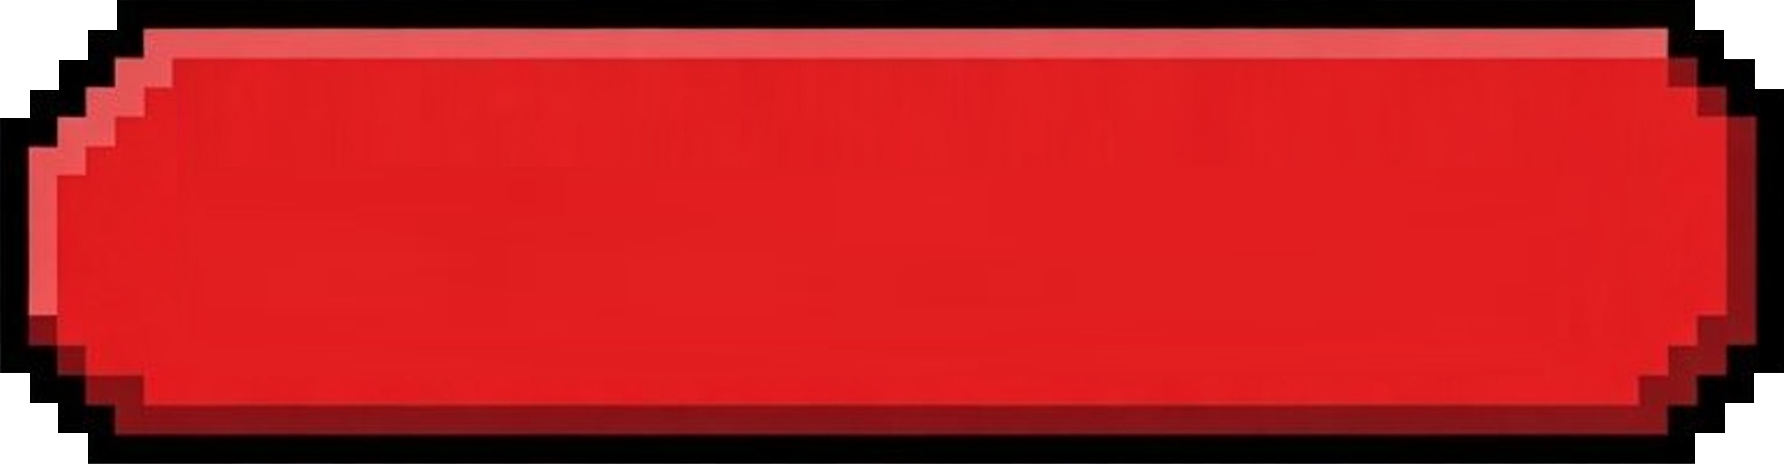
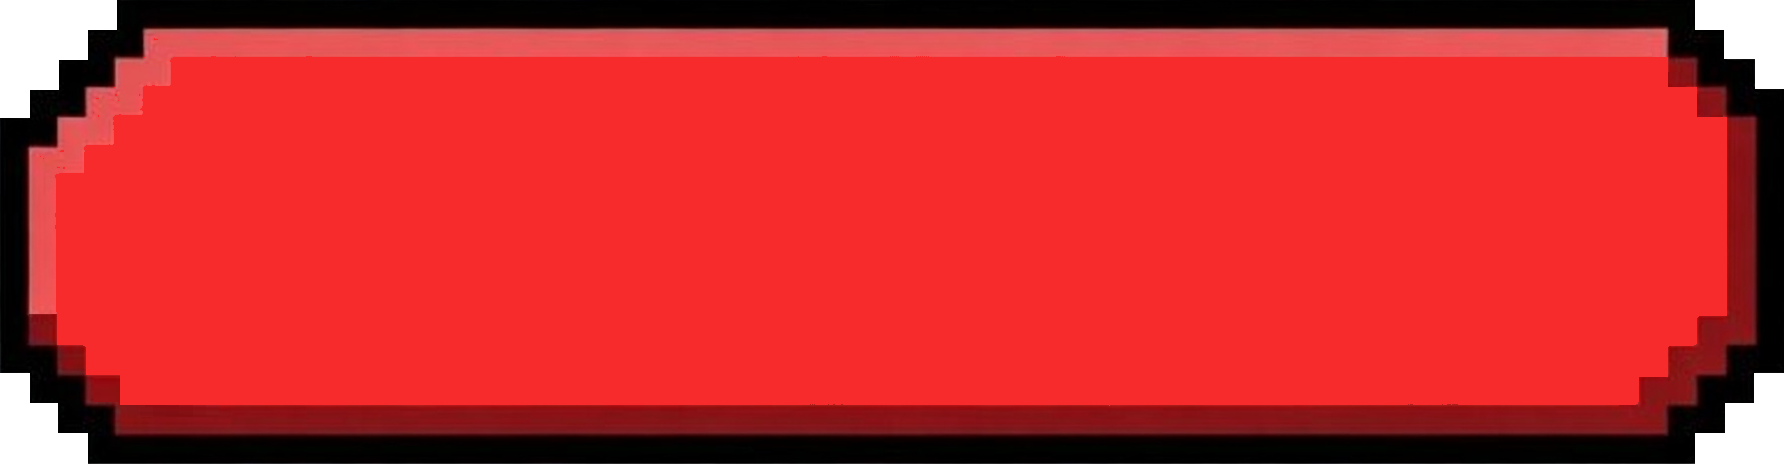
Botones de wallet recortados de nuevo, X recolor, flecha nueva y BACK TO SITE con arte, y arregla el editor de IN GAME
- CONNECT y el rojo vacio (deposit/withdraw/disconnect): David los recorto de
  nuevo, mismo tratamiento de quitar el magenta deshaciendo la mezcla del
  borde.
- x.png (la X de salir de partida): David la recoloreo pero dejo el recorte
  crudo, con el mismo fondo casi negro sin quitar que llevaban flecha/back to
  site. Aplicado el mismo dekey por brillo (fondo <=16, contenido >=50) que a
  esos dos - 0 pixels negros opacos residuales.
- Flecha de "volver al selector de modos" (.back-icon): arte nuevo de David
  (back-arrow.png) en vez del SVG + caja verde de antes.
- Boton "BACK TO SITE" (.back-to-web): arte nuevo (back-to-site.png, la
  flecha ya viene dibujada) con el rotulo escrito encima por CSS, igual que
  IN GAME. Tuvo que patchearse una fila de 1px blanca (artefacto del recorte)
  antes del dekey. Tamano 210x68 (no 180x58, el primero que probe): medido en
  el DOM, "BACK TO SITE" a 9px + letter-spacing se salia 8px por la derecha.
- Bug real encontrado al probar: GameWalletUI.refresh() es async y su rama
  "no conectado" se ejecuta DESPUES de un await, asi que si entrabas a
  SETTINGS -> EDIT LAYOUT justo tras seleccionar modo, ese refresh() pendiente
  pisaba la visibilidad forzada del editor (por eso la barra IN GAME o
  CONNECT/DEPOSIT desaparecian solos, o "saltaban"). refresh() ahora se corta
  si layoutEditing es true; exitLayoutEdit llama a refresh() al salir en vez
  de fiarse de la foto _layoutPrevDisplay (podia quedar desfasada).
[…]

Changed region(s): [[0.0308, 0.1207, 0.9865, 0.875], [0.185, 0.2716, 0.2158, 0.3319], [0.4008, 0.2414, 0.4316, 0.2716]]

diff --git a/game/index.html b/game/index.html
@@ -341,10 +341,26 @@
 
         /* --- MODE SCREEN (DESKTOP DEFAULT) --- */
         #modeScreen { position: absolute; top: 0; left: 0; width: 100%; height: 100%; z-index: 50; display: flex; overflow: hidden; background: #000; transition: opacity 0.5s; }
-        .back-to-web { position: absolute; top: 22px; left: 24px; z-index: 200; display: inline-flex; align-items: center; gap: 8px; padding: 9px 14px; background: rgba(8,12,8,0.85); backdrop-filter: blur(6px); border: 1px solid rgba(0,255,136,0.35); border-radius: 8px; color: #00ff88; font-family: 'Russo One',sans-serif; font-size: 11px; letter-spacing: 2px; text-transform: uppercase; text-decoration: none; cursor: pointer; transition: 0.25s; box-shadow: 0 6px 22px rgba(0,0,0,0.5); }
-        .back-to-web:hover { background: #00ff88; color: #04150c; border-color: #00ff88; box-shadow: 0 0 22px rgba(0,255,136,0.55); transform: translateX(-2px); }
-        .back-to-web svg { transition: transform 0.25s; }
-        .back-to-web:hover svg { transform: translateX(-3px); }
+        /* Boton "BACK TO SITE": arte de David (back-to-site.png, la flecha ya
+           viene dibujada a la izquierda), estirado ENTERO a tamaño uniforme
+           (mismo factor en ancho y alto — no distorsiona el marco) y el
+           rotulo escrito encima con la fuente pixel del menu, igual que
+           IN GAME (el PNG no trae texto horneado).
+           210x68 (aspect real 3136/1008 = 3.111): medido en el DOM, "BACK TO
+           SITE" en Press Start 2P a 9px + 2px de letter-spacing ocupa 132px —
+           a 180x58 (lo primero que probé) se salia 8px por la derecha. */
+        .back-to-web {
+            position: absolute; top: 22px; left: 24px; z-index: 200;
+            display: flex; align-items: center;
+            height: 68px; width: 210px; box-sizing: border-box;
+            padding: 0 14px 0 66px;
+            background: url('img/cartel-hero/back-to-site.png') center/100% 100% no-repeat;
+            image-rendering: pixelated;
+            color: #fff; font-family: 'Russo One',sans-serif; font-size: 11px; letter-spacing: 2px;
+            text-transform: uppercase; text-decoration: none; white-space: nowrap;
+            cursor: pointer; transition: filter 0.2s, transform 0.2s;
+        }
+        .back-to-web:hover { filter: brightness(1.15); transform: translateX(-2px); }
         .mode-panel { position: absolute; top: 0; bottom: 0; width: 100%; transition: clip-path 1.2s cubic-bezier(0.4, 0, 0.2, 1), filter 0.85s; cursor: pointer; display: flex; flex-direction: column; justify-content: center; padding: 0 10%; box-sizing: border-box; }
         
         /* Sin estado "neutral": la base YA es el aspecto de ARCADE (antes era
@@ -733,14 +749,16 @@
         .result-actions { display: flex; flex-direction: column; }
         .result-box { background: rgba(10, 15, 10, 0.95); border: 1px solid var(--primary); box-shadow: 0 0 50px rgba(0, 255, 136, 0.15); padding: 20px 30px; border-radius: 12px; text-align: center; width: 380px; animation: slideUp 0.4s ease-out; position: relative; max-height: 95vh; overflow-y: auto; }
         @keyframes slideUp { from {transform:translateY(20px); opacity:0;} to {transform:translateY(0); opacity:1;} }
-        .back-icon { position: absolute; top: 22px; left: 24px; z-index: 65; width: 44px; height: 44px; display: flex; align-items: center; justify-content: center; background: rgba(8,12,8,0.85); backdrop-filter: blur(6px); border: 1px solid rgba(0,255,136,0.35); border-radius: 8px; color: #00ff88; cursor: pointer; transition: 0.25s; box-shadow: 0 6px 22px rgba(0,0,0,0.5); user-select: none; }
-        .back-icon:hover { background: #00ff88; color: #04150c; border-color: #00ff88; box-shadow: 0 0 22px rgba(0,255,136,0.55); transform: translateX(-2px); }
-        .back-icon svg { transition: transform 0.25s; }
-        .back-icon:hover svg { transform: translateX(-3px); }
-        .back-icon.back-mode-classic { border-color: rgba(0,255,170,0.5); color: #00ffaa; }
-        .back-icon.back-mode-classic:hover { background: #00ffaa; color: #04150c; border-color: #00ffaa; box-shadow: 0 0 22px rgba(0,255,170,0.55); }
-        .back-icon.back-mode-arcade { border-color: rgba(204,255,0,0.5); color: #ccff00; }
-        .back-icon.back-mode-arcade:hover { background: #ccff00; color: #04150c; border-color: #ccff00; box-shadow: 0 0 22px rgba(204,255,0,0.55); }
+        /* Flecha de "volver al selector de modos": arte de David
+           (back-arrow.png) en vez del icono SVG + caja verde de antes. El PNG
+           ya trae su propio marco, asi que aqui solo queda tamaño y posicion;
+           sin fondo/borde/color propios (serian el rectangulo viejo asomando
+           detras del arte nuevo). Mismos 44x44 y sitio de siempre. */
+        .back-icon { position: absolute; top: 22px; left: 24px; z-index: 65; width: 44px; height: 44px; aspect-ratio: 1024/1007; background: url('img/cartel-hero/back-arrow.png') center/100% 100% no-repeat; image-rendering: pixelated; cursor: pointer; transition: filter 0.2s, transform 0.2s; user-select: none; }
+        .back-icon:hover { filter: brightness(1.15); transform: translateX(-2px); }
+        /* selectMode() sigue poniendo back-mode-classic/back-mode-arcade (linea
+           ~5440): antes recoloreaban el borde por modo (verde/amarillo), el
+           arte nuevo es fijo y ya no las necesita — se dejan sin regla aqui. */
         h1 { margin: 0 0 5px 0; color: #fff; font-family: 'Russo One'; font-size: 28px; text-transform: uppercase; }
         /* Cabecera del menu: titulo grande a la izquierda, descripcion al lado.
            Sin lineas ni cajas — flota libre como el resto. */
@@ -1064,6 +1082,9 @@
         #layoutEditBar .leb-btn { padding: 7px 14px; background: #14171c; color: #9aa3ad; border: 2px solid #2a2f36; font-family: 'Press Start 2P', monospace; font-size: 8px; cursor: pointer; box-shadow: 2px 2px 0 rgba(0,0,0,0.6); text-transform: uppercase; }
         #layoutEditBar .leb-btn:hover { color: #fff; border-color: #4a525c; }
         #layoutEditBar .leb-btn.done { background: #0f8f46; color: #fff; border-color: #000; }
+        #layoutEditBar .leb-group { display: flex; align-items: center; gap: 5px; padding-left: 10px; border-left: 1px solid #2a2f36; }
+        #layoutEditBar .leb-label { font-family: 'Press Start 2P', monospace; font-size: 6px; color: #6a737e; letter-spacing: 0.5px; }
+        #layoutEditBar .leb-btn.leb-sm { padding: 5px 10px; font-size: 10px; }
 
         /* Carteles ROOM PRICES / DAILY QUESTS: marco de piedra + fondo (PNG de
            David, quest-panel.png) via _pixFrameRule en buildPixPanelCss. */
@@ -1154,11 +1175,14 @@
         .tooltip-title { color: #fff; font-family: 'Russo One'; font-size: 16px; margin: 0 0 5px 0; text-transform: uppercase; }
         .tooltip-divider { width: 40px; height: 3px; background: var(--gold); margin-bottom: 10px; }
         .tooltip-desc { color: #ccc; font-size: 11px; line-height: 1.4; margin-bottom: 15px; }
-        /* ===== TEXTURE PACK PIXEL: relieve pixel art en menús (mismos colores) ===== */
+        /* ===== TEXTURE PACK PIXEL: relieve pixel art en menús (mismos colores) =====
+           .back-to-web YA NO entra aqui: es el PNG de David (back-to-site.png)
+           con su propio marco horneado, y este bisel rectangular asomaba por
+           detras (mismo motivo que #gameWalletArea button, ver mas abajo). */
         body.pixel-pack .gameModalBox, body.pixel-pack .exit-box,
         body.pixel-pack .mqp, body.pixel-pack #buffTable,
         body.pixel-pack #leaderboard, body.pixel-pack #oraclePanel, body.pixel-pack #missionsPanel,
-        body.pixel-pack .back-to-web, body.pixel-pack .mqp-btn {
+        body.pixel-pack .mqp-btn {
             border-radius: 0 !important; backdrop-filter: none !important;
             box-shadow: 6px 6px 0 rgba(0,0,0,0.6), inset 2px 2px 0 rgba(255,255,255,0.07), inset -2px -2px 0 rgba(0,0,0,0.55) !important;
         }
@@ -1705,6 +1729,21 @@
     <!-- Barra del editor de layout del menu: visible solo en modo edicion -->
     <div id="layoutEditBar" style="display:none;">
         <span class="leb-hint">DRAG = MOVE &nbsp;·&nbsp; WHEEL = SIZE &nbsp;·&nbsp; ALT+WHEEL = TITLE GLOW / TEXT SIZE (IN GAME) &nbsp;·&nbsp; CTRL+WHEEL = WIDTH (IN GAME) &nbsp;·&nbsp; CTRL+SHIFT+WHEEL = HEIGHT &nbsp;·&nbsp; DOUBLE-CLICK = RESET ONE</span>
+        <!-- Botones sueltos para el texto/ancho de IN GAME: el gesto de rueda
+             (ALT / CTRL+rueda) depende de acertar el punto exacto con el raton
+             y de que el navegador no se coma la combinacion (CTRL+rueda hace
+             zoom de pagina si el puntero se sale un pixel de la caja). Estos
+             botones hacen lo mismo sin depender de puntería. -->
+        <span class="leb-group">
+            <span class="leb-label">IN GAME TXT</span>
+            <button class="leb-btn leb-sm" onclick="bumpWalletFont(-1)">−</button>
+            <button class="leb-btn leb-sm" onclick="bumpWalletFont(1)">+</button>
+        </span>
+        <span class="leb-group">
+            <span class="leb-label">IN GAME WIDTH</span>
+            <button class="leb-btn leb-sm" onclick="bumpWalletWidth(-10)">−</button>
+            <button class="leb-btn leb-sm" onclick="bumpWalletWidth(10)">+</button>
+        </span>
         <button class="leb-btn" onclick="resetMenuLayout()">RESET ALL</button>
         <button class="leb-btn" onclick="saveLayoutGlobal(this)">SAVE FOR ALL</button>
         <button class="leb-btn done" onclick="exitLayoutEdit()">DONE</button>
@@ -1793,10 +1832,9 @@
     </div>
 
     <div id="modeScreen">
+        <!-- El arte de back-to-site.png ya trae la flecha dibujada a la izquierda:
+             sin SVG, solo el rotulo (el PNG no trae texto horneado). -->
         <a href="../" class="back-to-web" title="Back to PillWars site" onclick="event.stopPropagation();">
-            <svg viewBox="-2 -2 28 28" width="20" height="20" fill="none" stroke="currentColor" stroke-width="2.5" stroke-linecap="round" stroke-linejoin="round">
-                <path d="M19 12H5M12 19l-7-7 7-7"/>
-            </svg>
             <span>BACK TO SITE</span>
         </a>
         <!-- La escena de los portales se dibuja pixel a pixel en un canvas a
@@ -1846,11 +1884,8 @@
            reescalado sin suavizado (mismo rollo que la escena de modos y el
            grid del juego). Se repinta con el tinte del modo en selectMode. -->
       <canvas id="loginBgCv"></canvas>
-      <div class="back-icon" onclick="goBackToModes()">
-          <svg viewBox="-2 -2 28 28" width="20" height="20" fill="none" stroke="currentColor" stroke-width="2.5" stroke-linecap="round" stroke-linejoin="round">
-              <path d="M19 12H5M12 19l-7-7 7-7"/>
-          </svg>
-      </div>
+      <!-- El arte de back-arrow.png ya trae dibujada la flecha: sin SVG dentro. -->
+      <div class="back-icon" onclick="goBackToModes()"></div>
       <div class="menu-row">
         <div class="login-box">
             <!-- Cabecera: titulo del modo + 2 frases breves a la derecha -->
@@ -6011,16 +6046,19 @@
         // La barra de saldo y los botones de wallet solo salen con la cartera
         // conectada; en el editor se enseñan igual para poder colocarlos, con un
         // saldo de muestra para ver como queda la cifra mas larga.
-        // CONNECT se queda OCULTO: comparte hueco y entrada de layout con
-        // DEPOSIT, asi que enseñarlo solo pondria un boton encima del otro —
-        // moviendo DEPOSIT se mueve CONNECT igual.
+        // CONNECT y DEPOSIT se enseñan LOS DOS a la vez (David los quiere
+        // siempre en el mismo sitio y quiere verlo): comparten entrada de
+        // layout, asi que salen exactamente superpuestos — eso es lo correcto,
+        // no un fallo. CONNECT medio transparente para distinguir cual es cual
+        // sin esconder ninguno.
         const wa = document.getElementById('gameWalletArea');
         if (wa) { wa._layoutPrevDisplay = wa.style.display; wa.style.display = 'flex'; }
         for (const id of ['gwBalBox', 'gwDepositWrap', 'gwConnect']) {
             const el = document.getElementById(id);
             if (!el) continue;
             el._layoutPrevDisplay = el.style.display;
-            el.style.display = id === 'gwConnect' ? 'none' : (id === 'gwBalBox' ? 'flex' : 'block');
+            el.style.display = id === 'gwBalBox' ? 'flex' : 'block';
+            if (id === 'gwConnect') el.style.opacity = '0.55';
         }
         const bal = document.getElementById('gwBalValue');
         if (bal && !bal.textContent.trim()) bal.textContent = '999,999,999';
@@ -6034,12 +6072,36 @@
             const el = document.getElementById(id);
             if (el && el._layoutPrevDisplay !== undefined) { el.style.display = el._layoutPrevDisplay; delete el._layoutPrevDisplay; }
         }
-        // El saldo real lo repone GameWalletUI.refresh en cuanto toque.
+        const gwc = document.getElementById('gwConnect');
+        if (gwc) gwc.style.opacity = '';
+        // El display que se restaura arriba (_layoutPrevDisplay) es una FOTO de
+        // antes de entrar al editor: si mientras tanto conectaste/desconectaste
+        // la wallet, esa foto ya no vale. refresh() lo deja correcto al momento
+        // en vez de esperar al siguiente tick de los 6s del setInterval.
         if (!GameWallet.address) { const bal = document.getElementById('gwBalValue'); if (bal) bal.textContent = ''; }
+        if (typeof GameWalletUI !== 'undefined') GameWalletUI.refresh();
         document.querySelectorAll('.menu-editable').forEach(el => el.classList.remove('menu-editable'));
         document.getElementById('layoutEditBar').style.display = 'none';
         saveMenuLayout();
         invalidateLoginUIRects();   // el layout cambió → recalcular zonas prohibidas
+    }
+    // Botones sueltos IN GAME TXT/WIDTH (ver #layoutEditBar): mismo efecto que
+    // ALT+rueda / CTRL+rueda sobre la caja, pero sin depender de acertar el
+    // punto exacto con el raton ni de que el navegador no se coma la
+    // combinacion (CTRL+rueda fuera de la caja hace zoom de pagina).
+    function bumpWalletFont(delta) {
+        const el = document.querySelector(LAYOUT_ELS.walletBar); if (!el) return;
+        const cur = menuLayout.walletBar = menuLayout.walletBar || { x: 0, y: 0, s: 1 };
+        const base = typeof cur.f === 'number' ? cur.f : (parseFloat(getComputedStyle(el).getPropertyValue('--gw-font')) || 13);
+        cur.f = Math.round(Math.min(48, Math.max(6, base + delta)) * 10) / 10;
+        marcarLayoutMio('walletBar'); applyMenuLayout(); saveMenuLayout();
+    }
+    function bumpWalletWidth(delta) {
+        const el = document.querySelector(LAYOUT_ELS.walletBar); if (!el) return;
+        const cur = menuLayout.walletBar = menuLayout.walletBar || { x: 0, y: 0, s: 1 };
+        const base = typeof cur.w === 'number' ? cur.w : el.getBoundingClientRect().width;
+        cur.w = Math.max(40, Math.min(900, base + delta));
+        marcarLayoutMio('walletBar'); applyMenuLayout(); saveMenuLayout();
     }
     // RESET ALL vuelve a cero Y suelta las claves propias: a partir de aqui
     // manda otra vez el global del servidor.
@@ -6852,7 +6914,15 @@
         async refresh() {
             const balBox = document.getElementById('gwBalBox'), balVal = document.getElementById('gwBalValue');
             const conn = document.getElementById('gwConnect'), dep = document.getElementById('gwDepositWrap');
+            // GameWallet.ensure() de abajo es async: si esto se llama justo al
+            // entrar al menu (setVisible → refresh), la funcion queda en pausa
+            // ahi y el resto (los display de conn/dep/balBox) se ejecuta MAS
+            // TARDE, cuando quiza ya estas en SETTINGS -> EDIT LAYOUT. Sin este
+            // corte, ese "mas tarde" pisaba lo que el editor acababa de forzar
+            // visible (por eso CONNECT/DEPOSIT o la barra IN GAME desaparecian
+            // solos, o "saltaban", nada mas abrir el editor).
             if (!GameWallet.address) { await GameWallet.ensure(); }
+            if (layoutEditing) return;
             if (GameWallet.address) {
                 conn.style.display = 'none'; dep.style.display = 'inline-block';
                 try { this.gameBalance = (await (await fetch('/api/warbalance?wallet=' + GameWallet.address)).json()).pill || 0; } catch (e) {}
